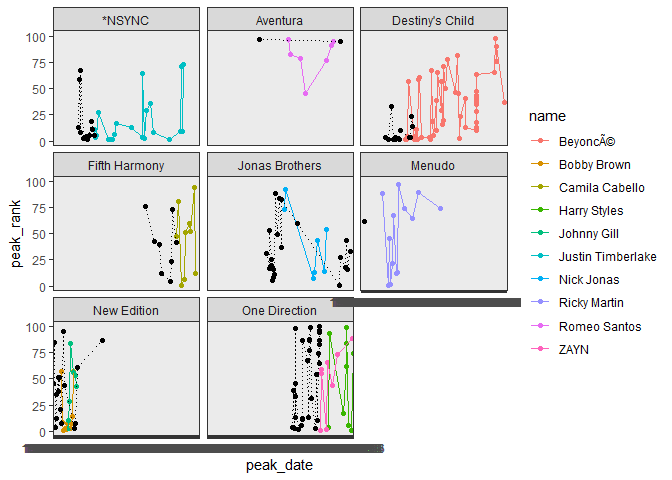
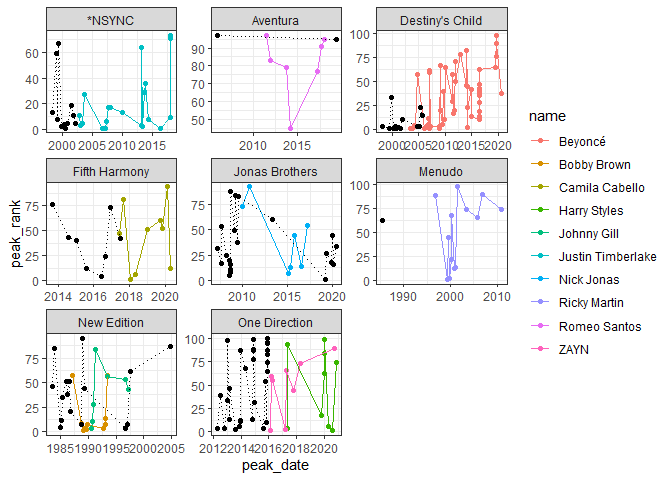
graph completed

diff --git a/Week3/Task5/task5.html b/Week3/Task5/task5.html
@@ -199,6 +199,9 @@ pre code {
 library(downloader)</code></pre>
 <pre><code>## Warning: package &#39;downloader&#39; was built under R version 4.0.5</code></pre>
 <pre class="r"><code>library(readxl)</code></pre>
+</div>
+<div id="load-data" class="section level5">
+<h5>Load Data</h5>
 <pre class="r"><code>SoloData &lt;- tibble(read.csv(&quot;solo-artist-followers.csv&quot;))
 head(SoloData)</code></pre>
 <pre><code>## # A tibble: 6 x 5
@@ -211,28 +214,85 @@ head(SoloData)</code></pre>
 ## 5 Joey Fatone       *NSYNC 1.13k     1.44M          âˆ’1.44M           
 ## 6 Justin Timberlake *NSYNC 10.3M     1.44M          8.90M</code></pre>
 <pre class="r"><code>BillboardData &lt;- tibble(read.csv(&quot;billboard-hits.csv&quot;))
-view(BillboardData)</code></pre>
-<p>All data types seem to be imported correctly.</p>
+str(BillboardData)</code></pre>
+<pre><code>## tibble [456 x 5] (S3: tbl_df/tbl/data.frame)
+##  $ name     : chr [1:456] &quot;*NSYNC&quot; &quot;*NSYNC&quot; &quot;*NSYNC&quot; &quot;*NSYNC&quot; ...
+##  $ band     : chr [1:456] &quot;&quot; &quot;&quot; &quot;&quot; &quot;&quot; ...
+##  $ title    : chr [1:456] &quot;It&#39;s Gonna Be Me&quot; &quot;Music Of My Heart&quot; &quot;Bye Bye Bye&quot; &quot;This I Promise You&quot; ...
+##  $ peak_date: chr [1:456] &quot;2000-07-28&quot; &quot;1999-10-15&quot; &quot;2000-04-14&quot; &quot;2000-12-01&quot; ...
+##  $ peak_rank: int [1:456] 1 2 4 5 5 8 11 13 19 59 ...</code></pre>
+<pre class="r"><code>#Change peak_date to date
+BillboardData &lt;- read_csv(
+  (&quot;billboard-hits.csv&quot;),
+  col_types = cols(
+    peak_date = col_date()
+  )
+)
+str(BillboardData)</code></pre>
+<pre><code>## tibble [456 x 5] (S3: spec_tbl_df/tbl_df/tbl/data.frame)
+##  $ name     : chr [1:456] &quot;*NSYNC&quot; &quot;*NSYNC&quot; &quot;*NSYNC&quot; &quot;*NSYNC&quot; ...
+##  $ band     : chr [1:456] NA NA NA NA ...
+##  $ title    : chr [1:456] &quot;It&#39;s Gonna Be Me&quot; &quot;Music Of My Heart&quot; &quot;Bye Bye Bye&quot; &quot;This I Promise You&quot; ...
+##  $ peak_date: Date[1:456], format: &quot;2000-07-28&quot; &quot;1999-10-15&quot; ...
+##  $ peak_rank: num [1:456] 1 2 4 5 5 8 11 13 19 59 ...
+##  - attr(*, &quot;spec&quot;)=
+##   .. cols(
+##   ..   name = col_character(),
+##   ..   band = col_character(),
+##   ..   title = col_character(),
+##   ..   peak_date = col_date(format = &quot;&quot;),
+##   ..   peak_rank = col_double()
+##   .. )</code></pre>
+<p>All data types seem to be imported correctly, except the peak_date for billboard data. Peak_date had to be converted to data type date.</p>
+</div>
+<div id="get-hits-data" class="section level4">
+<h4>Get hits data</h4>
 <pre class="r"><code>atleast_six_hits &lt;- BillboardData %&gt;%
   group_by(name) %&gt;%
   filter(n() &gt; 6 &amp; band != &quot;&quot;)
 
-view(atleast_six_hits)</code></pre>
+view(atleast_six_hits)
+str(atleast_six_hits)</code></pre>
+<pre><code>## tibble [144 x 5] (S3: grouped_df/tbl_df/tbl/data.frame)
+##  $ name     : chr [1:144] &quot;Justin Timberlake&quot; &quot;Justin Timberlake&quot; &quot;Justin Timberlake&quot; &quot;Justin Timberlake&quot; ...
+##  $ band     : chr [1:144] &quot;*NSYNC&quot; &quot;*NSYNC&quot; &quot;*NSYNC&quot; &quot;*NSYNC&quot; ...
+##  $ title    : chr [1:144] &quot;SexyBack&quot; &quot;My Love&quot; &quot;What Goes Around...Comes Around&quot; &quot;Can&#39;t Stop The Feeling!&quot; ...
+##  $ peak_date: Date[1:144], format: &quot;2006-09-08&quot; &quot;2006-11-10&quot; ...
+##  $ peak_rank: num [1:144] 1 1 1 1 2 3 3 5 6 8 ...
+##  - attr(*, &quot;groups&quot;)= tibble [10 x 2] (S3: tbl_df/tbl/data.frame)
+##   ..$ name : chr [1:10] &quot;Beyoncé&quot; &quot;Bobby Brown&quot; &quot;Camila Cabello&quot; &quot;Harry Styles&quot; ...
+##   ..$ .rows: list&lt;int&gt; [1:10] 
+##   .. ..$ : int [1:51] 30 31 32 33 34 35 36 37 38 39 ...
+##   .. ..$ : int [1:11] 110 111 112 113 114 115 116 117 118 119 ...
+##   .. ..$ : int [1:9] 81 82 83 84 85 86 87 88 89
+##   .. ..$ : int [1:9] 128 129 130 131 132 133 134 135 136
+##   .. ..$ : int [1:7] 121 122 123 124 125 126 127
+##   .. ..$ : int [1:22] 1 2 3 4 5 6 7 8 9 10 ...
+##   .. ..$ : int [1:7] 90 91 92 93 94 95 96
+##   .. ..$ : int [1:13] 97 98 99 100 101 102 103 104 105 106 ...
+##   .. ..$ : int [1:7] 23 24 25 26 27 28 29
+##   .. ..$ : int [1:8] 137 138 139 140 141 142 143 144
+##   .. ..@ ptype: int(0) 
+##   ..- attr(*, &quot;.drop&quot;)= logi TRUE</code></pre>
 <pre class="r"><code>band_hits &lt;- BillboardData %&gt;% 
   group_by(band) %&gt;%
   filter(name %in% atleast_six_hits$band)
+#Switch band and name column data
 band_hits &lt;- rename(band_hits, band = name, name = band)
 view(band_hits)</code></pre>
+</div>
+<div id="graph" class="section level4">
+<h4>Graph</h4>
 <pre class="r"><code>ggplot(data = atleast_six_hits, aes(x = peak_date, y = peak_rank, color = name, group = name)) +
   geom_point() +
   geom_line() +
   geom_point(data = band_hits, color = &#39;black&#39;) +
   geom_line(data = band_hits, color = &#39;black&#39;,linetype = &#39;dotted&#39;) +
-  facet_wrap(~band) +
+  facet_wrap(~band, scales = &quot;free&quot;) +
   theme_bw()</code></pre>
 <pre><code>## geom_path: Each group consists of only one observation. Do you need to adjust
 ## the group aesthetic?</code></pre>
[2 lines of base64/hex data omitted]
 </div>
 
 

diff --git a/Week3/Task5/task5.md b/Week3/Task5/task5.md
@@ -48,7 +48,7 @@ library(downloader)
 ```r
 library(readxl)
 ```
-
+##### Load Data
 
 ```r
 SoloData <- tibble(read.csv("solo-artist-followers.csv"))
@@ -69,12 +69,50 @@ head(SoloData)
 
 ```r
 BillboardData <- tibble(read.csv("billboard-hits.csv"))
-view(BillboardData)
+str(BillboardData)
 ```
 
-All data types seem to be imported correctly.
+```
+## tibble [456 x 5] (S3: tbl_df/tbl/data.frame)
+##  $ name     : chr [1:456] "*NSYNC" "*NSYNC" "*NSYNC" "*NSYNC" ...
+##  $ band     : chr [1:456] "" "" "" "" ...
+##  $ title    : chr [1:456] "It's Gonna Be Me" "Music Of My Heart" "Bye Bye Bye" "This I Promise You" ...
+##  $ peak_date: chr [1:456] "2000-07-28" "1999-10-15" "2000-04-14" "2000-12-01" ...
+##  $ peak_rank: int [1:456] 1 2 4 5 5 8 11 13 19 59 ...
+```
 
+```r
+#Change peak_date to date
+BillboardData <- read_csv(
+  ("billboard-hits.csv"),
+  col_types = cols(
+    peak_date = col_date()
+  )
+)
+str(BillboardData)
+```
 
+```
+## tibble [456 x 5] (S3: spec_tbl_df/tbl_df/tbl/data.frame)
+##  $ name     : chr [1:456] "*NSYNC" "*NSYNC" "*NSYNC" "*NSYNC" ...
+##  $ band     : chr [1:456] NA NA NA NA ...
+##  $ title    : chr [1:456] "It's Gonna Be Me" "Music Of My Heart" "Bye Bye Bye" "This I Promise You" ...
+##  $ peak_date: Date[1:456], format: "2000-07-28" "1999-10-15" ...
+##  $ peak_rank: num [1:456] 1 2 4 5 5 8 11 13 19 59 ...
+##  - attr(*, "spec")=
+##   .. cols(
+##   ..   name = col_character(),
+##   ..   band = col_character(),
+##   ..   title = col_character(),
+##   ..   peak_date = col_date(format = ""),
+##   ..   peak_rank = col_double()
+##   .. )
+```
+
+All data types seem to be imported correctly, except the peak_date for billboard data.
+Peak_date had to be converted to data type date.
+
+#### Get hits data
 
 ```r
 atleast_six_hits <- BillboardData %>%
@@ -82,6 +120,31 @@ atleast_six_hits <- BillboardData %>%
   filter(n() > 6 & band != "")
 
 view(atleast_six_hits)
+str(atleast_six_hits)
+```
+
+```
+## tibble [144 x 5] (S3: grouped_df/tbl_df/tbl/data.frame)
+##  $ name     : chr [1:144] "Justin Timberlake" "Justin Timberlake" "Justin Timberlake" "Justin Timberlake" ...
+##  $ band     : chr [1:144] "*NSYNC" "*NSYNC" "*NSYNC" "*NSYNC" ...
+##  $ title    : chr [1:144] "SexyBack" "My Love" "What Goes Around...Comes Around" "Can't Stop The Feeling!" ...
+##  $ peak_date: Date[1:144], format: "2006-09-08" "2006-11-10" ...
+##  $ peak_rank: num [1:144] 1 1 1 1 2 3 3 5 6 8 ...
+##  - attr(*, "groups")= tibble [10 x 2] (S3: tbl_df/tbl/data.frame)
+##   ..$ name : chr [1:10] "Beyoncé" "Bobby Brown" "Camila Cabello" "Harry Styles" ...
+##   ..$ .rows: list<int> [1:10] 
+##   .. ..$ : int [1:51] 30 31 32 33 34 35 36 37 38 39 ...
+##   .. ..$ : int [1:11] 110 111 112 113 114 115 116 117 118 119 ...
+##   .. ..$ : int [1:9] 81 82 83 84 85 86 87 88 89
+##   .. ..$ : int [1:9] 128 129 130 131 132 133 134 135 136
+##   .. ..$ : int [1:7] 121 122 123 124 125 126 127
+##   .. ..$ : int [1:22] 1 2 3 4 5 6 7 8 9 10 ...
+##   .. ..$ : int [1:7] 90 91 92 93 94 95 96
+##   .. ..$ : int [1:13] 97 98 99 100 101 102 103 104 105 106 ...
+##   .. ..$ : int [1:7] 23 24 25 26 27 28 29
+##   .. ..$ : int [1:8] 137 138 139 140 141 142 143 144
+##   .. ..@ ptype: int(0) 
+##   ..- attr(*, ".drop")= logi TRUE
 ```
 
 
@@ -89,10 +152,11 @@ view(atleast_six_hits)
 band_hits <- BillboardData %>% 
   group_by(band) %>%
   filter(name %in% atleast_six_hits$band)
+#Switch band and name column data
 band_hits <- rename(band_hits, band = name, name = band)
 view(band_hits)
 ```
-
+#### Graph
 
 ```r
 ggplot(data = atleast_six_hits, aes(x = peak_date, y = peak_rank, color = name, group = name)) +
@@ -100,7 +164,7 @@ ggplot(data = atleast_six_hits, aes(x = peak_date, y = peak_rank, color = name, 
   geom_line() +
   geom_point(data = band_hits, color = 'black') +
   geom_line(data = band_hits, color = 'black',linetype = 'dotted') +
-  facet_wrap(~band) +
+  facet_wrap(~band, scales = "free") +
   theme_bw()
 ```
 
@@ -110,4 +174,6 @@ ggplot(data = atleast_six_hits, aes(x = peak_date, y = peak_rank, color = name, 
 ```
 
 ![](task5_files/figure-html/Graphing-1.png)<!-- -->
-
+It seems that majority of the top 100 hits for the bands are a result of having a good singer.
+However, the Jonas Brothers, One Direction, and New Edition have had several top 100 hits regardless of the singer.
+Beyonce seems to be the cause of majority of Destiny's Child top 100 hits.
